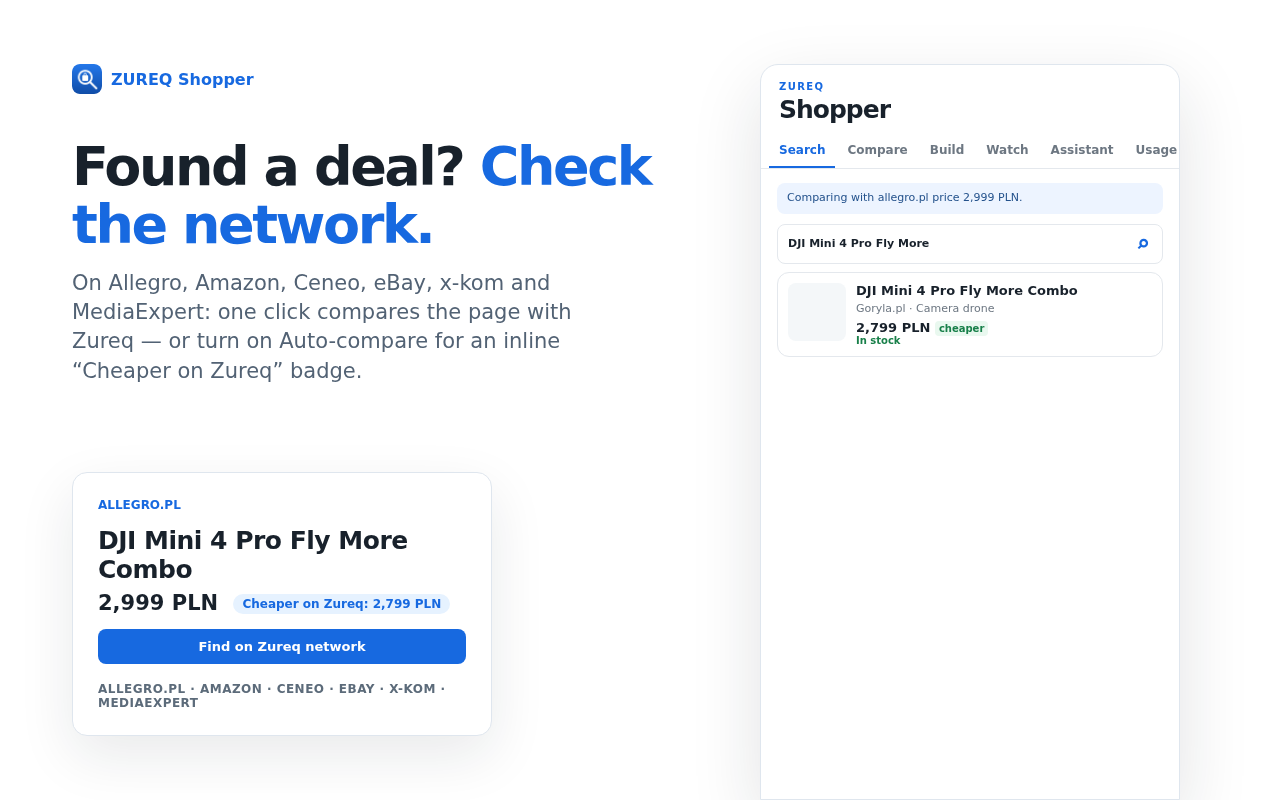
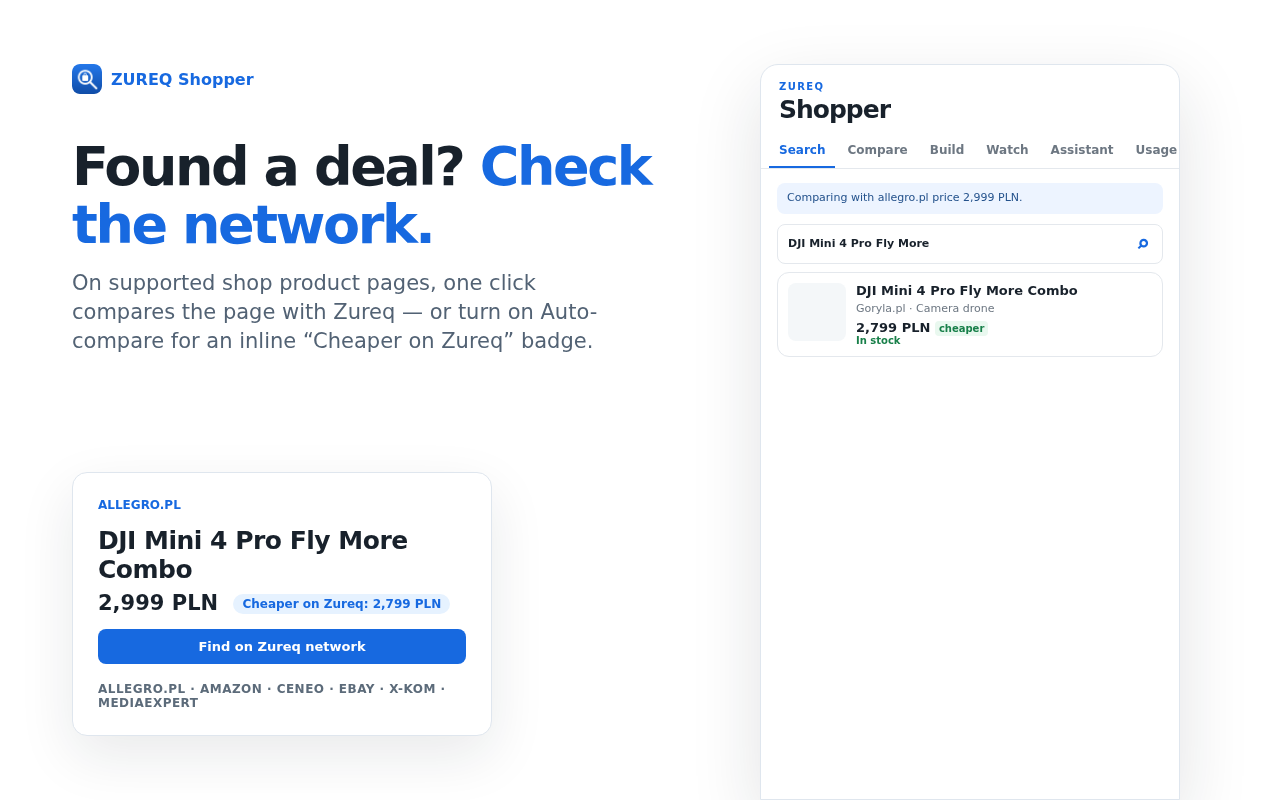
Release 1.2.2: drop retailer name list from store summary and description

Changed region(s): [[0.0625, 0.3438, 0.4688, 0.4688]]

diff --git a/store-assets/src/shot5-shop-page.html b/store-assets/src/shot5-shop-page.html
@@ -4,7 +4,7 @@
 <body><div class="canvas">
   <div class="brand"><img src="../../icons/icon128.png" alt=""> ZUREQ Shopper</div>
   <div class="headline">Found a deal? <em>Check the network.</em></div>
-  <div class="subline">On Allegro, Amazon, Ceneo, eBay, x-kom and MediaExpert: one click compares the page with Zureq — or turn on Auto-compare for an inline “Cheaper on Zureq” badge.</div>
+  <div class="subline">On supported shop product pages, one click compares the page with Zureq — or turn on Auto-compare for an inline “Cheaper on Zureq” badge.</div>
   <div class="aside"><div style="width:420px;background:#fff;border:1px solid #dfe6ee;border-radius:15px;padding:25px;box-shadow:0 20px 55px #18212b18;">
     <div style="color:#1769e0;font-size:12px;font-weight:800;">ALLEGRO.PL</div><h2 style="margin:14px 0 7px;font-size:25px;">DJI Mini 4 Pro Fly More Combo</h2><div class="price" style="font-size:21px;">2,999 PLN <span style="display:inline-block;margin-left:8px;padding:3px 9px;border-radius:999px;background:#e6f2ff;color:#1769e0;font-size:12px;font-weight:800;vertical-align:middle;">Cheaper on Zureq: 2,799 PLN</span></div><button class="primary full">Find on Zureq network</button>
     <div style="margin-top:18px;color:#5c6b7a;font-size:12px;font-weight:700;letter-spacing:.04em;">ALLEGRO.PL · AMAZON · CENEO · EBAY · X-KOM · MEDIAEXPERT</div>

diff --git a/store-assets/listing.md b/store-assets/listing.md
@@ -6,7 +6,7 @@ ZUREQ Shopper — Network Product Search & Price Compare
 
 ## Summary
 
-Search all Zureq shops, compare markets, plan builds, watch prices, find cheaper offers on Allegro, Amazon, Ceneo, eBay and x-kom.
+Search all Zureq shops, compare markets, plan builds, watch prices, and check supported shop product pages for cheaper offers.
 
 ## Detailed description
 
@@ -39,9 +39,8 @@ FEATURES
   handoffs, with optional on-device Prompt API support.
 - Price alerts for watched products and searches, with a configurable
   background check interval.
-- “Find on Zureq network” button on Allegro.pl, Amazon, Ceneo, eBay, x-kom.pl,
-  and MediaExpert.pl, including an optional same-currency cheaper-result
-  marker.
+- “Find on Zureq network” button on supported shop product pages, including
+  an optional same-currency cheaper-result marker.
 - Share a build as a link or Markdown, and import builds shared with you.
 - Context-menu actions, recent searches, usage tracking, and persisted build
   state.

diff --git a/CHANGELOG.md b/CHANGELOG.md
@@ -1,5 +1,9 @@
 # Changelog
 
+## [1.2.2] - 2026-09-19
+
+- Reworded the store summary and description to drop the retailer name list (Chrome Web Store keyword policy).
+
 ## [1.2.1] - 2026-09-19
 
 - Refreshed the store summary and listing screenshots for the 1.2 feature set.
